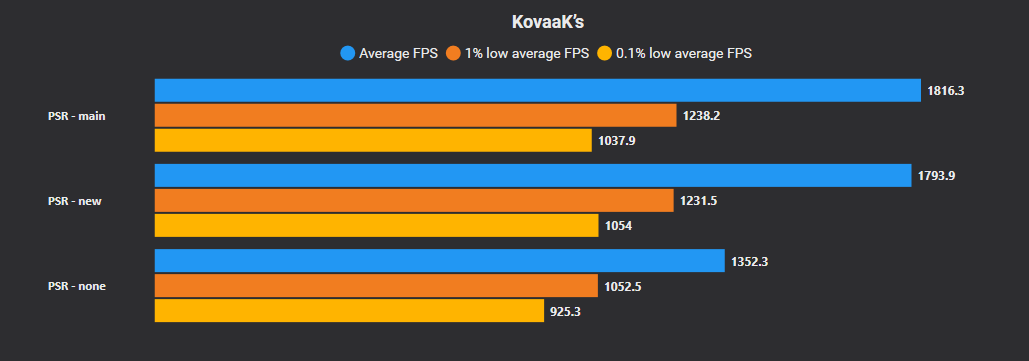
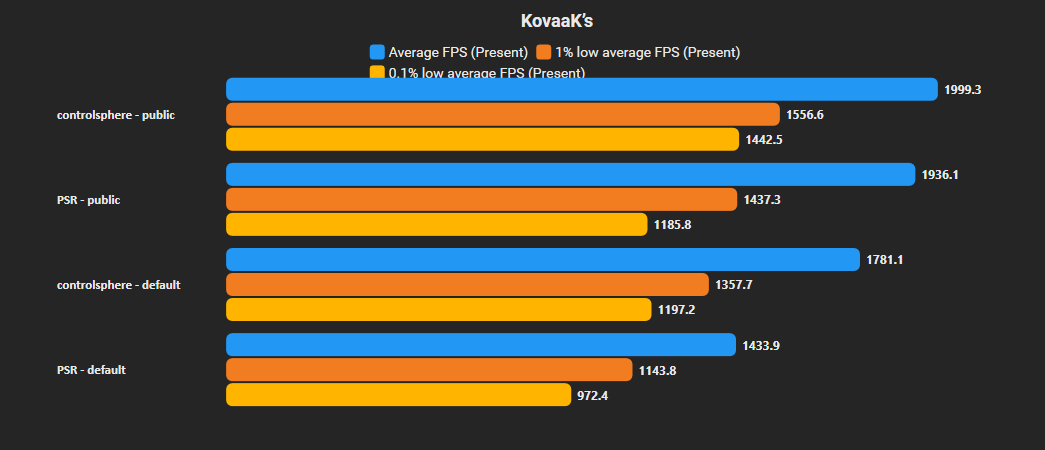
Updated README.md and benchmarks

diff --git a/README.md b/README.md
@@ -5,10 +5,10 @@ At the moment the repository only includes an optimized `Engine.ini`, but more c
 ---
 
 ## Engine.ini
+> **Use this at your own risk.**
+> This is not a guide and I am not claiming it is the best config for every PC. It is my personal `Engine.ini`, built around the hardware and scenarios I use. Back up your own file before trying it.  
 
-### Overview
-
-Current `Engine.ini` focuses on reducing unnecessary UE4 rendering overhead and improving frame consistency. I have tested it only on AMD CPU's.
+> Don't blame KovaaKs for crashes if you are using modified `Engine.ini`.
 
 ### Tested on
 
@@ -22,17 +22,16 @@ Current `Engine.ini` focuses on reducing unnecessary UE4 rendering overhead and 
 - CapFrameX
 
 ### Results
-PSR = pasu small reload
+Tested on `pasu small reload` and `Controlsphere`  
 
-main = this config  
-none = clean Engine.ini  
-new = don't mind it  
+public = this config  
+default = stock Engine.ini  
 
 <p align="center">
   <img src="images/benchmark.png" width="900">
 </p>
 
-Your results WILL vary.
+**Your results WILL BE DIFFERENT.**
 
 ### Installation
 
@@ -73,18 +72,20 @@ r.GTSyncType=1
 r.RHI.MaximumFrameLatency=1
 ```
 
+`r.FinishCurrentFrame=1` is most likely not worth it.
+
 As always, test what works best on your own system.
 
-### Notes
-
-- Properly tested only on AMD Ryzen CPUs, it caused crashes on Intel systems.
-- Intel compatibility is not the greatest, some settings will cause crashes or instability.
-- Not every CVar has been individually tested. Some are probably redundant or have no measurable effect, but they're left in until I can verify them properly (it will never happen).
-- Occasional crashes will happen when alt-tabbing while your cursor is hovering over an item in the UI with hover effect (for example tooltip). If those crashes are too much for you set `Slate.EnableGlobalInvalidation` to `0`, but you will lose some frames. It also causes some minor text artifacts.  
-*I've added two cvars that are disabling tooltips and should fix the crashing issue but it needs testing: `Slate.AllowToolTips=0` and `Slate.EnableTooltips=0`.*  
-- If you want Glow back, set `r.DefaultFeature.Bloom=True` and `r.BloomQuality=5`
+### Known Issues
+- #### Target glow is missing
+  Set `r.DefaultFeature.Bloom=1` and `r.BloomQuality=5`
+- #### Crash while alt-tabbing or hovering a tooltip
+  Set `Slate.EnableTooltips=0` and `Slate.AllowToolTips=0`
+- #### No tooltips
+  Remove `Slate.EnableTooltips=0` and `Slate.AllowToolTips=0`. You will have crashed on alt-tabs
+- #### Checkboxes not refreshing/ UI elements not working properly
+  Set `Slate.EnableGlobalInvalidation=0`. This will significantly decrease FPS
 
 ---
-
-## Planned
-- More stuff
+###### *Not every CVar has been individually tested (majority wasn't). Some are probably redundant or have no measurable effect, but they're left in until I can verify them properly (it will never happen).*
+---
